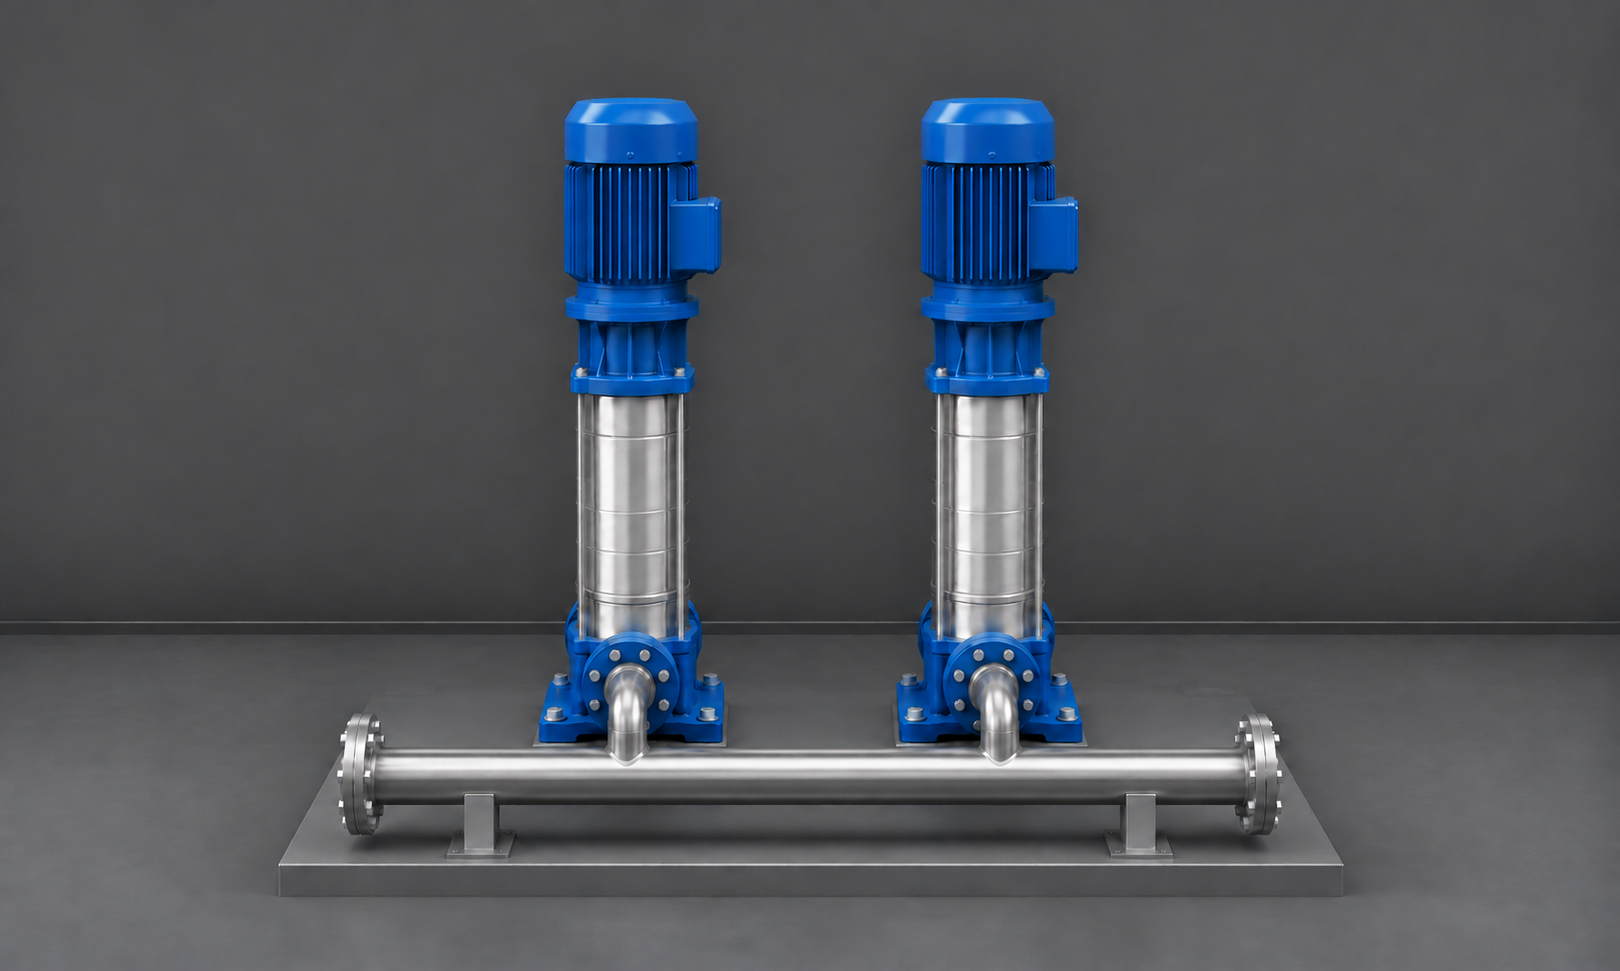
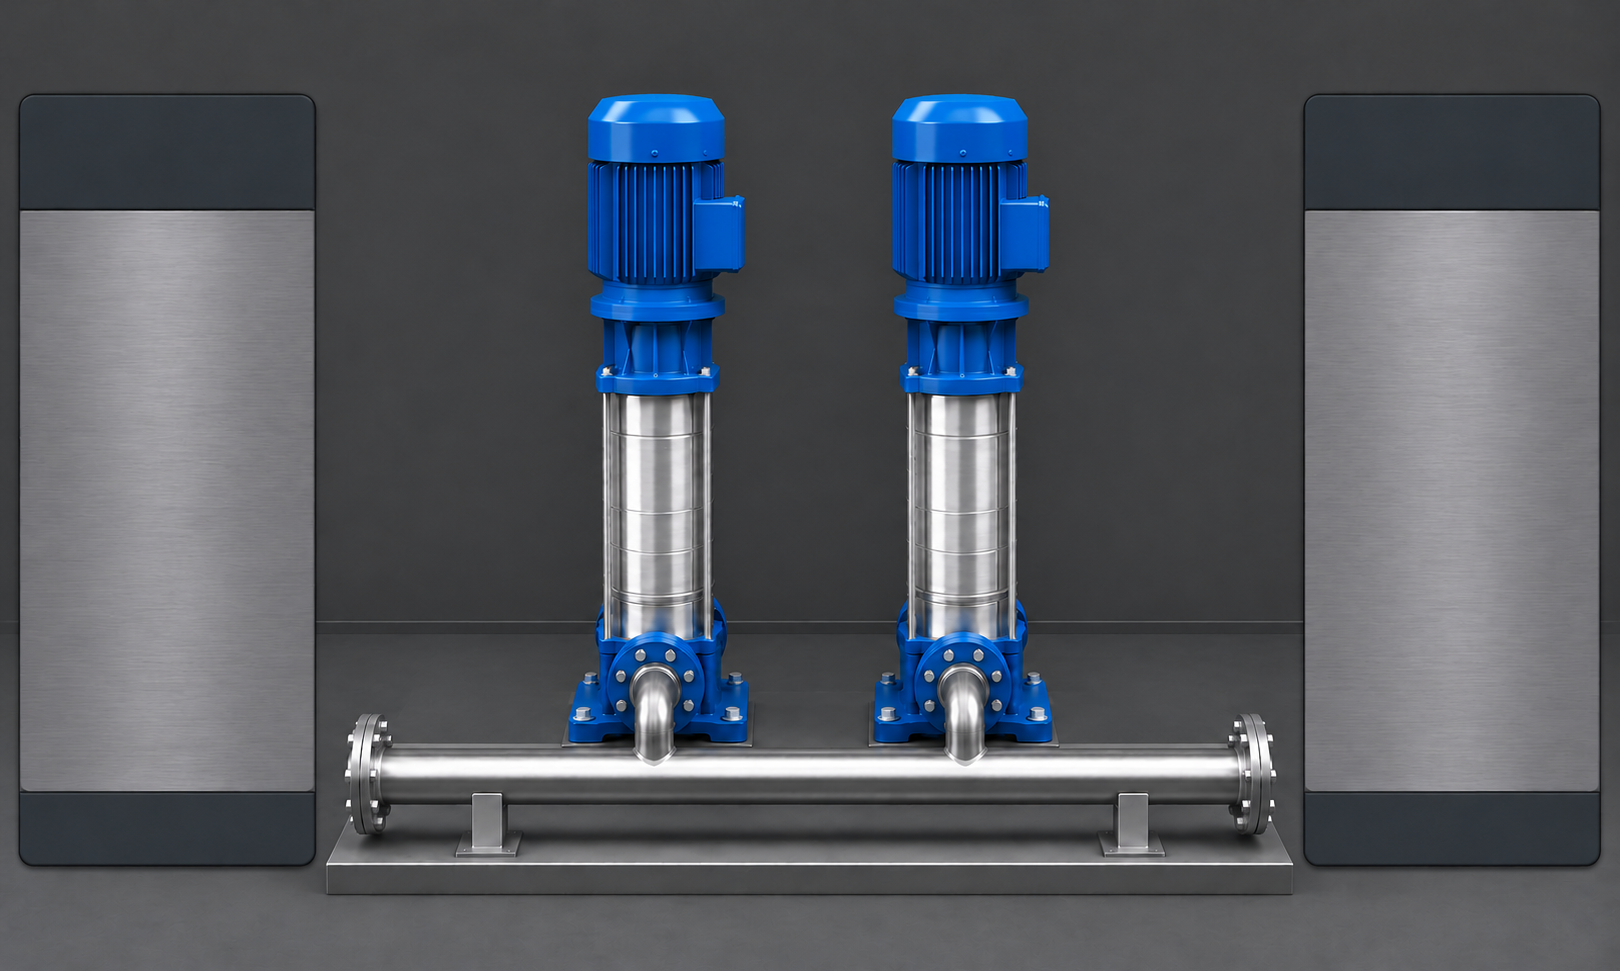
Restore side information panels in all HMI pump backgrounds

diff --git a/assets/hmi/vertical-pumps/README.md b/assets/hmi/vertical-pumps/README.md
@@ -1,8 +1,11 @@
 # Выбранные фоны HMI: 2, 3 и 4 насоса
 
-Пользователь утвердил этот комплект 06.11.2026: вертикальные синие насосы
+Пользователь выбрал основной вид 06.11.2026: вертикальные синие насосы
 с серебристыми корпусами, один нижний серебристый коллектор, тёмный фон.
 Верхняя труба с ответвлениями и две задние стойки удалены.
+По уточнению пользователя добавлены две пустые информационные панели,
+как на старом фоне: тёмные верх/низ и металлическая центральная часть.
+Показатели, подписи и команды остаются отдельными объектами HMI.
 
 | Установлено насосов | Изображение |
 | --- | --- |
@@ -23,3 +26,6 @@ SKTool. Вместе с изображением согласовать расп
 Статус: комплект выбран и сохранён. Импорт в рабочий SKM и переключение
 фона ещё не выполнены; локальную ручную HMI-копию необходимо сохранить.
 Старые эскизы с горизонтальными насосами не являются текущим выбором.
+Коммит3615134 содержит предшествующий комплект без панелей. Для локальной
+доставки текущего комплекта использовать новую папку
+`HMI_Backgrounds_2-3-4_Panels`, закреплённый коммит и актуальный manifest.

diff --git a/docs/HANDOFF.md b/docs/HANDOFF.md
@@ -1,5 +1,20 @@
 # Передача контекста Codex — 05.11.2026 (МСК)
 
+## 06.11: фоны исправлены с учётом боковых панелей
+
+Пользователь сообщил, что локальная доставка прежнего комплекта готова,
+затем показал старый фон: две пустые боковые информационные панели встроены
+в рисунок. В первоначальном новом комплекте панели были упущены. Исправлены
+все2/3/4 в `assets/hmi/vertical-pumps/`, manifest revision `with-side-panels`.
+Панели имеют тёмные верх/низ и металлическую середину; насосы/коллектор
+расположены между ними. Показания и надписи в картинку не встроены.
+
+Ранее скачанный3615134 без панелей не использовать для замены текущего фона.
+Передать исправленный комплект через локальный CLI в новую папку
+HMI_Backgrounds_2-3-4_Panels по закреплённому новому коммиту с проверкой SHA.
+Обновление PNG не является импортом в пользовательский SKM; привязки/
+компоновка данных и переключение по N остаются частью native-работы.
+
 ## 06.11: передать выбранные PNG через локальный CLI
 
 Пользователь уточнил, что скачивание файлов из чата по-прежнему не работает,

diff --git a/AGENTS.md b/AGENTS.md
@@ -1,5 +1,15 @@
 # Работа с проектом
 
+**06.11, исправление фонов: вернуть боковые информационные панели.**
+Пользователь показал старый фон с двумя встроенными пустыми панелями;
+в новых их первоначально упустили. PNG2/3/4 в `assets/hmi/vertical-pumps/`
+обновлены: тёмный верх/низ и металлическая середина панелей, насосы между
+ними; динамические показатели остаются объектами HMI. Manifest revision
+`with-side-panels`. Ранее доставленный комплект3615134 без панелей устарел.
+Через локальный CLI получить исправленный комплект по новому закреплённому
+коммиту в новую папку `HMI_Backgrounds_2-3-4_Panels`, сверить SHA. Повторных
+ссылок на скачивание из чата не давать; исходный SKM этим ещё не изменён.
+
 **Доставка файлов пользователю:** скачивание вложений/архивов из чата у него
 не работает. Для согласованных публичных ассетов использовать локальный CLI:
 получить файлы из GitHub в новую разрешённую папку и сверить SHA из manifest.
